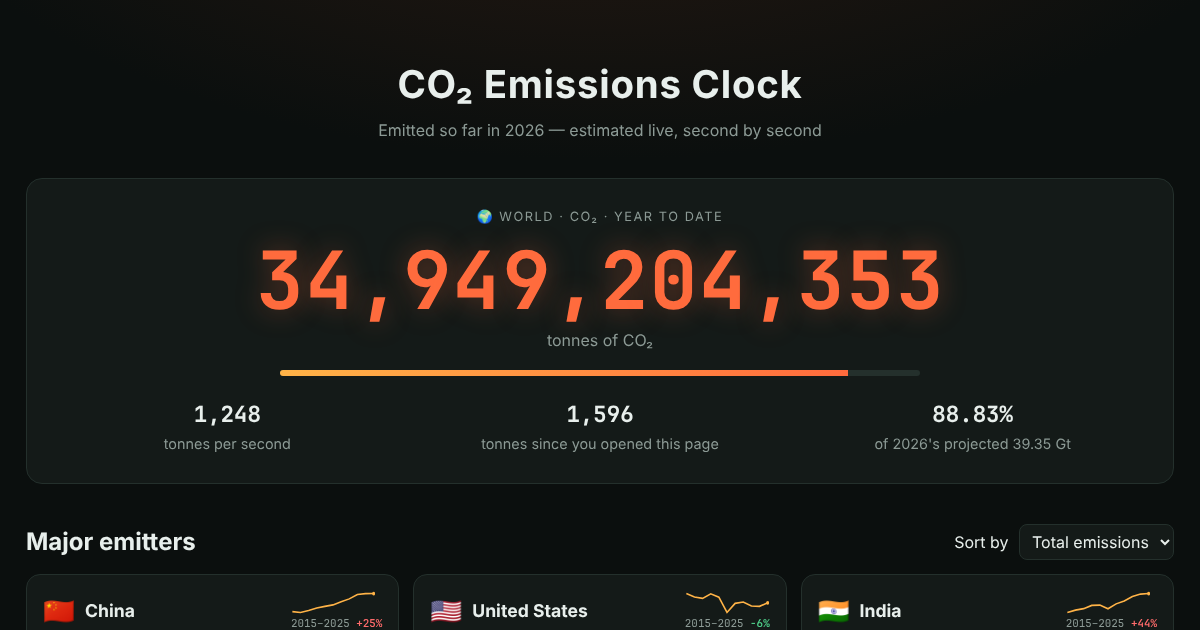
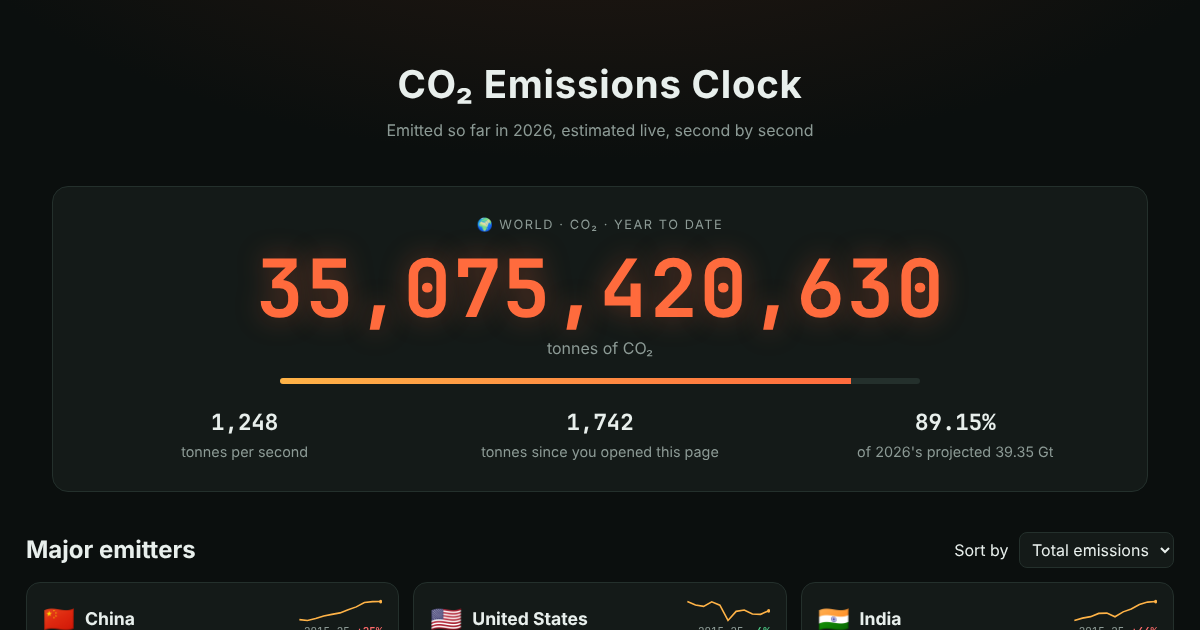
Remove em and en dashes from text and preview image
Claude-Session: https://claude.ai/code/session_01KMf4v8suBxyLEQeq7bKUrM

diff --git a/index.html b/index.html
@@ -3,7 +3,7 @@
 <head>
   <meta charset="utf-8">
   <meta name="viewport" content="width=device-width, initial-scale=1">
-  <title>Live CO₂ &amp; Methane Emissions Clock – World and Countries in Real Time</title>
+  <title>Live CO₂ &amp; Methane Emissions Clock: World and Countries in Real Time</title>
   <meta name="description" content="Watch global CO₂ and methane emissions rise second by second. A live emissions clock for the world, China, the US, India, the EU and other major emitters, based on official Global Carbon Budget data.">
   <meta name="keywords" content="CO2 emissions, carbon emissions, methane emissions, emissions clock, live CO2 counter, greenhouse gases, climate change, carbon dioxide by country, Global Carbon Budget">
   <link rel="canonical" href="https://ramialbatal.github.io/emissions-clock/">
@@ -16,7 +16,7 @@
   <meta property="og:type" content="website">
   <meta property="og:site_name" content="Emissions Clock">
   <meta property="og:title" content="Live CO₂ &amp; Methane Emissions Clock">
-  <meta property="og:description" content="Global and national greenhouse gas emissions, ticking in real time — based on official annual data.">
+  <meta property="og:description" content="Global and national greenhouse gas emissions, ticking in real time, based on official annual data.">
   <meta property="og:url" content="https://ramialbatal.github.io/emissions-clock/">
   <meta property="og:image" content="https://ramialbatal.github.io/emissions-clock/img/og-image.png">
   <meta property="og:image:width" content="1200">
@@ -24,7 +24,7 @@
   <meta property="og:image:alt" content="Emissions Clock showing world CO₂ emitted so far this year">
   <meta name="twitter:card" content="summary_large_image">
   <meta name="twitter:title" content="Live CO₂ &amp; Methane Emissions Clock">
-  <meta name="twitter:description" content="Global and national greenhouse gas emissions, ticking in real time — based on official annual data.">
+  <meta name="twitter:description" content="Global and national greenhouse gas emissions, ticking in real time, based on official annual data.">
   <meta name="twitter:image" content="https://ramialbatal.github.io/emissions-clock/img/og-image.png">
 
   <script type="application/ld+json">
@@ -59,7 +59,7 @@
   <header class="top">
     <div class="wrap">
       <h1><span data-gas-label>CO₂</span> Emissions Clock</h1>
-      <p class="sub">Emitted so far in <span data-year></span> — estimated live, second by second</p>
+      <p class="sub">Emitted so far in <span data-year></span>, estimated live, second by second</p>
       <div class="gas-bar">
         <div class="gas-switch" role="group" aria-label="Choose greenhouse gas">
           <button type="button" data-gas="co2" aria-pressed="true">CO₂</button>
@@ -76,7 +76,7 @@
     <div class="status">
       <p><strong>This live clock needs JavaScript.</strong></p>
       <p class="hint">It estimates carbon dioxide (CO₂) and methane emissions so far this year for the world and major
-        emitters — China, the United States, India, the European Union, Russia, Japan and more — by projecting the latest
+        emitters (China, the United States, India, the European Union, Russia, Japan and more) by projecting the latest
         official annual figures (Global Carbon Budget; Jones et al.) and spreading them evenly over the year.</p>
     </div>
   </noscript>
@@ -167,10 +167,10 @@ so far   = annual × fraction of the year elapsed (UTC)</pre>
       <p class="co2-only"><strong>What the CO₂ figures cover:</strong> territorial carbon dioxide from burning fossil fuels and
         making cement. Land-use change (such as deforestation) is excluded, and international aviation and shipping only
         appear in the world total.</p>
-      <p class="ch4-only"><strong>What the methane figures cover:</strong> methane (CH₄) from all human sources — fossil fuel
+      <p class="ch4-only"><strong>What the methane figures cover:</strong> methane (CH₄) from all human sources: fossil fuel
         production and leaks, livestock, rice farming, landfills, and land use and fires. Tonnes of methane are converted to
         <em>CO₂-equivalents</em> (CO₂e): the amount of CO₂ that would cause the same warming over 100 years (one tonne of
-        methane ≈ 27–30 t CO₂e). Methane only lasts about 12 years in the air but traps far more heat while it does, so cutting
+        methane ≈ 27 to 30 t CO₂e). Methane only lasts about 12 years in the air but traps far more heat while it does, so cutting
         it is the fastest way to slow warming in the near term. Official methane data is published with a longer delay than CO₂,
         so its projection reaches further ahead.</p>
 
@@ -227,13 +227,13 @@ so far   = annual × fraction of the year elapsed (UTC)</pre>
 
       <div class="co2-only">
         <h3>What it is</h3>
-        <p>Carbon dioxide is the gas released when we burn <b>coal, oil and gas</b> — in power plants, cars, planes, factories and
-          heating — and when we make cement. Plants and oceans absorb some of it, but we now release far more than they can take up.</p>
+        <p>Carbon dioxide is the gas released when we burn <b>coal, oil and gas</b> (in power plants, cars, planes, factories and
+          heating) and when we make cement. Plants and oceans absorb some of it, but we now release far more than they can take up.</p>
         <h3>Why it matters most</h3>
         <p><b>It piles up.</b> Much of the CO₂ we emit today will still be in the air in hundreds of years, some of it for thousands.
           So every tonne adds to the blanket, and the blanket only gets thicker while we keep emitting. Since the 1800s, CO₂ in the
           air has risen from about <b>280 to 425 parts per million</b>.</p>
-        <p>That’s why CO₂ has caused <b>the largest share of global warming</b> — and why warming only stops when CO₂ emissions
+        <p>That’s why CO₂ has caused <b>the largest share of global warming</b>, and why warming only stops when CO₂ emissions
           reach <b>net zero</b>. Slowing them down isn’t enough on its own.</p>
         <p class="analogy">💡 Think of a <b>bathtub with the tap running</b>: turning the tap down slows the rise, but the water keeps
           getting higher until the tap is off.</p>
@@ -245,11 +245,11 @@ so far   = annual × fraction of the year elapsed (UTC)</pre>
           <b>cows and sheep</b> (it forms in their stomachs), <b>rice paddies</b>, and <b>rotting waste in landfills</b>.</p>
         <h3>Why it matters</h3>
         <p><b>It’s powerful but short-lived.</b> A tonne of methane traps about <b>80 times more heat</b> than a tonne of CO₂ over its
-          first 20 years — but it breaks down in about <b>12 years</b>.</p>
+          first 20 years, but it breaks down in about <b>12 years</b>.</p>
         <p>That makes it the <b>fastest brake</b> on warming: cut methane today and the effect shows up within a decade.
           It has caused roughly a third as much warming as CO₂ so far.</p>
         <p class="analogy">💡 If CO₂ is a <b>blanket that keeps getting thicker</b>, methane is a <b>powerful heater on a timer</b>:
-          very strong while it’s on, but it switches itself off — as long as we stop adding more.</p>
+          very strong while it’s on, but it switches itself off, as long as we stop adding more.</p>
         <h3>Why this page shows “CO₂-equivalent”</h3>
         <p>To compare gases fairly, methane is converted into the amount of CO₂ that would cause the same warming over 100 years
           (1 tonne of methane ≈ 28 tonnes CO₂-eq). Over 20 years the factor is about 80, so the 100-year number understates its short-term punch.</p>
@@ -268,7 +268,7 @@ so far   = annual × fraction of the year elapsed (UTC)</pre>
         <p class="cmp-q">Warming caused so far</p>
         <div class="cmp-row co2"><span>CO₂</span><div class="cmp-bar"><i style="width:100%"></i></div><b>≈0.8 °C</b></div>
         <div class="cmp-row ch4"><span>Methane</span><div class="cmp-bar"><i style="width:62%"></i></div><b>≈0.5 °C</b></div>
-        <p class="cmp-note">Together with other gases this adds up to more than the ~1.1–1.3 °C we’ve seen, because air pollution
+        <p class="cmp-note">Together with other gases this adds up to more than the ~1.1 to 1.3 °C we’ve seen, because air pollution
           (tiny particles) has been cooling the planet slightly and hiding some of the warming. Source: IPCC AR6.</p>
       </div>
 

diff --git a/js/app.js b/js/app.js
@@ -92,7 +92,7 @@
   const yearFraction = (now) => (now - Date.UTC(YEAR, 0, 1)) / MS_PER_YEAR(YEAR);
 
   // ---- Rendering -----------------------------------------------------------
-  // 12.42 Gt / 573 Mt / 48.2 Mt — keeps small methane figures readable
+  // 12.42 Gt / 573 Mt / 48.2 Mt: keeps small methane figures readable
   function mass(t) {
     if (Math.abs(t) >= 1e9) return fmt2.format(t / 1e9) + " Gt";
     return (Math.abs(t) >= 1e8 ? fmt0 : fmt1).format(t / 1e6) + " Mt";
@@ -133,7 +133,7 @@
       <svg class="spark" viewBox="-2 0 ${W + 4} ${H}" preserveAspectRatio="none" aria-hidden="true">
         <polyline points="${pts}"/><circle cx="${lx.toFixed(1)}" cy="${ly.toFixed(1)}" r="2.2"/>
       </svg>
-      <figcaption>${first}–${last} <b class="${change > 0 ? "up" : change < 0 ? "down" : ""}">${
+      <figcaption>${first}-${String(last).slice(2)} <b class="${change > 0 ? "up" : change < 0 ? "down" : ""}">${
         change > 0 ? "+" : ""}${fmt0.format(change)}%</b></figcaption>
       <span class="sr-only">Annual emissions ${first} to ${last}</span>
     </figure>`;
@@ -211,9 +211,9 @@
           <div><dt>Per second</dt><dd>${(perSecond(e.annual) < 10 ? fmt1 : fmt0).format(perSecond(e.annual))} t</dd></div>
           <div><dt>${e.lastYear} official</dt><dd>${mass(e.lastValue)}</dd></div>
           <div><dt>${YEAR} projected</dt><dd>${mass(e.annual)}</dd></div>
-          <div><dt>Per person / yr</dt><dd>${e.perCap != null ? fmt1.format(e.perCap) + " t" : "—"}</dd></div>
+          <div><dt>Per person / yr</dt><dd>${e.perCap != null ? fmt1.format(e.perCap) + " t" : "n/a"}</dd></div>
           <div><dt>Trend / yr</dt><dd class="${g > 0 ? "up" : g < 0 ? "down" : ""}">${
-            g == null ? "—" : (g > 0 ? "▲ +" : g < 0 ? "▼ " : "") + fmt1.format(g * 100) + "%"}</dd></div>
+            g == null ? "n/a" : (g > 0 ? "▲ +" : g < 0 ? "▼ " : "") + fmt1.format(g * 100) + "%"}</dd></div>
           <div class="wide"><dt>Since you opened this page</dt><dd class="since">0 t</dd></div>
         </dl>
         ${e.series ? `<button type="button" class="more" aria-expanded="false">Yearly data <span aria-hidden="true">▾</span></button>${historyTable(e)}` : ""}`;
@@ -360,7 +360,7 @@
   function applyGasLabels(key) {
     const gas = CFG.gases[key];
     document.body.dataset.gas = key;
-    document.title = `Live ${gas.label} Emissions Clock – World and Countries in Real Time`;
+    document.title = `Live ${gas.label} Emissions Clock: World and Countries in Real Time`;
     document.querySelectorAll("[data-gas-label]").forEach((el) => (el.textContent = gas.label));
     document.querySelectorAll("[data-gas-long]").forEach((el) => (el.textContent = gas.long));
     document.querySelectorAll("[data-gas-unit]").forEach((el) => (el.textContent = gas.unitLong));
